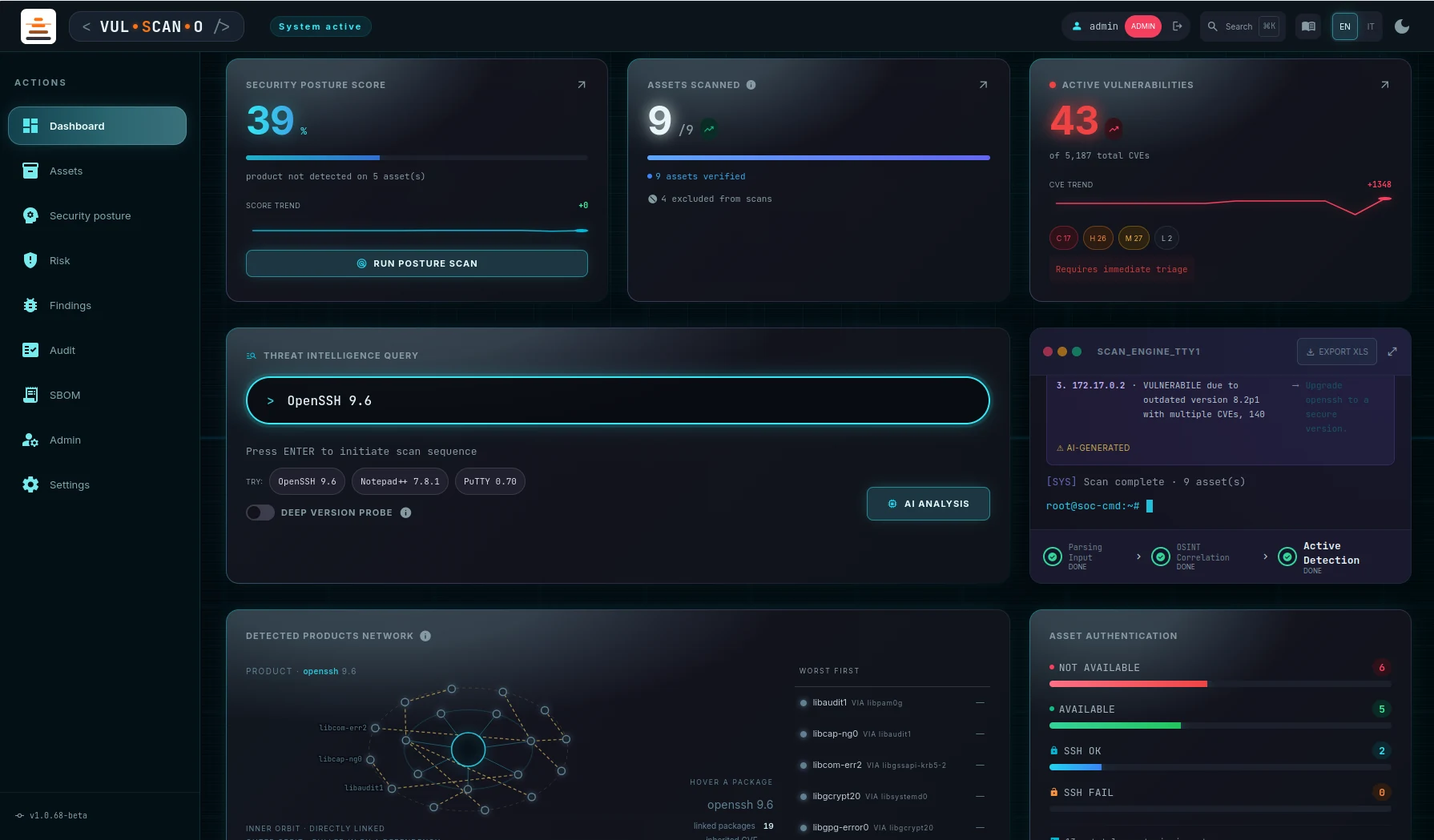
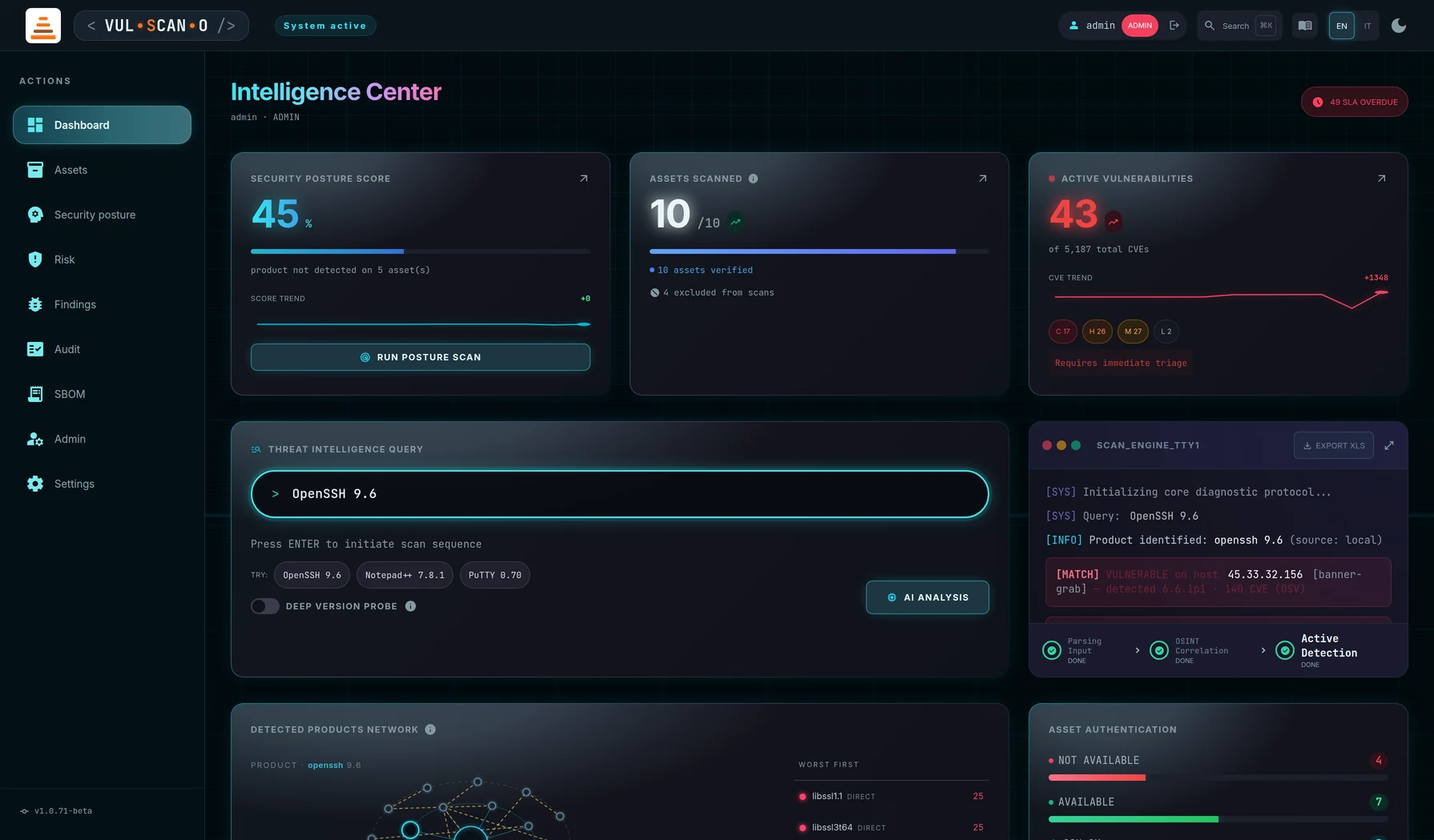
NEW: the dependency orbit inherits the risk the posture run already measured
The panel drew twenty packages and coloured none of them. The linkage
returns distribution package names (libssl3t64 on Noble, libssl1.1 on
Focal, zlib1g on both) while the posture run indexes product names
(openssl, zlib, systemd), so every lookup missed and every body fell
back to "not covered by a posture scan yet" — including packages the
posture run had measured minutes earlier, on the same host.

orbitProduct() bridges the two: exact hit first, then the soname tail
stripped, then the lib prefix, then a short alias table for the names
that are not derivable (ssl/crypto -> openssl, z -> zlib, c -> glibc).
A candidate is accepted only if the risk index actually holds it, so
over-stripping degrades to "unmeasured" instead of inventing a match:
libnginx-mod-http-geoip2 stays itself, it does not become nginx.

Where the bridge fires, the panel says so — the hover readout gains a
"measured as openssl" line. The label on the body stays the package
that is really installed, because that is what you would go and patch.

OpenSSH 9.6 across two hosts: 20 linked packages, 95 inherited CVE, 4
bodies now carrying real colour and size where there were none.

Documentation follows in the same commit, since the figures had to be
retaken anyway:

- the manual's dashboard figure now shows a real measurement (OpenSSH
  9.6 on two authenticated Linux hosts) instead of the rotating demo,
  and the section documents the orbits, the inherited-risk encoding,
[…]

diff --git a/static/manuale_uso/03-dashboard.html b/static/manuale_uso/03-dashboard.html
@@ -374,10 +374,10 @@
         <figure>
           <img src="img/dash-network.webp" alt="Detected products network graph" loading="lazy" />
           <figcaption>
-            <span lang="en"><b>The product dependency graph</b> — here in its idle <em>LIVE DEMO</em> state, cycling through
-              sample products every three seconds while no scan has run.</span>
-            <span lang="it"><b>Il grafo delle dipendenze di prodotto</b> — qui nello stato inattivo <em>LIVE DEMO</em>, che ruota
-              fra prodotti di esempio ogni tre secondi finché non è stata eseguita alcuna scansione.</span>
+            <span lang="en"><b>The dependency orbit</b> — a real measurement, not the demo: OpenSSH 9.6 as found on two
+              authenticated Linux hosts, with the packages it links ranked worst first.</span>
+            <span lang="it"><b>L'orbita delle dipendenze</b> — una misura reale, non la demo: OpenSSH 9.6 come rilevato su due
+              host Linux autenticati, con i pacchetti collegati ordinati dal peggiore.</span>
           </figcaption>
         </figure>
 
@@ -395,11 +395,13 @@
 
         <h3><span lang="en">How It Works</span><span lang="it">Come funziona</span></h3>
         <ol class="steps">
-          <li><span lang="en"><strong>Identification</strong> — the searched text resolves to a canonical product (alias match, or OSINT fallback). That becomes the central cyan node.</span><span lang="it"><strong>Identificazione</strong> — il testo cercato viene risolto in un prodotto canonico (corrispondenza per alias o fallback OSINT). Diventa il nodo centrale ciano.</span></li>
+          <li><span lang="en"><strong>Identification</strong> — the searched text resolves to a canonical product (alias match, or OSINT fallback). That becomes the central body the two orbits turn around.</span><span lang="it"><strong>Identificazione</strong> — il testo cercato viene risolto in un prodotto canonico (corrispondenza per alias o fallback OSINT). Diventa il corpo centrale attorno a cui girano le due orbite.</span></li>
           <li><span lang="en"><strong>Dependencies</strong> — on each authenticated Linux asset where the product is found, the scanner runs <code>ldd</code> over the product binary to list the shared libraries it really links, then maps every library to its owning package with <code>dpkg -S</code> (Debian/Ubuntu) or <code>rpm -qf</code> (RHEL/Fedora). The graph shows the union of those packages across all assets.</span><span lang="it"><strong>Dipendenze</strong> — su ogni asset Linux autenticato dove il prodotto è presente, lo scanner esegue <code>ldd</code> sul binario del prodotto per elencare le librerie condivise realmente collegate, poi associa ogni libreria al pacchetto che la fornisce con <code>dpkg -S</code> (Debian/Ubuntu) o <code>rpm -qf</code> (RHEL/Fedora). Il grafo mostra l'unione di quei pacchetti su tutti gli asset.</span></li>
-          <li><span lang="en"><strong>Inter-dependency links</strong> — for each dependency library, its direct <code>DT_NEEDED</code> entries are read with <code>objdump -p</code> (fallback <code>readelf -d</code>) and resolved back to packages. A dashed edge A→B is drawn <em>only</em> when A really links B.</span><span lang="it"><strong>Collegamenti fra dipendenze</strong> — per ogni libreria di dipendenza vengono lette le voci dirette <code>DT_NEEDED</code> con <code>objdump -p</code> (fallback <code>readelf -d</code>) e risolte nuovamente in pacchetti. Un arco tratteggiato A→B viene disegnato <em>solo</em> quando A collega davvero B.</span></li>
+          <li><span lang="en"><strong>Inter-dependency links</strong> — for each dependency library, its direct <code>DT_NEEDED</code> entries are read with <code>objdump -p</code> (fallback <code>readelf -d</code>) and resolved back to packages. A dashed edge A→B is drawn <em>only</em> when A really links B. That distance is what places a package: the <b>inner orbit</b> holds what the product links directly, the <b>outer orbit</b> what a dependency drags in behind it.</span><span lang="it"><strong>Collegamenti fra dipendenze</strong> — per ogni libreria di dipendenza vengono lette le voci dirette <code>DT_NEEDED</code> con <code>objdump -p</code> (fallback <code>readelf -d</code>) e risolte nuovamente in pacchetti. Un arco tratteggiato A→B viene disegnato <em>solo</em> quando A collega davvero B. È quella distanza a decidere la posizione: l'<b>orbita interna</b> tiene ciò che il prodotto collega direttamente, l'<b>orbita esterna</b> ciò che una dipendenza si trascina dietro.</span></li>
           <li><span lang="en"><strong>Noise filtering</strong> — ubiquitous base libraries (libc, the loader, libgcc/libstdc++) are removed, because they connect to everything and inform nothing.</span><span lang="it"><strong>Filtro del rumore</strong> — le librerie di base onnipresenti (libc, il loader, libgcc/libstdc++) vengono rimosse, perché collegano tutto e non informano di nulla.</span></li>
-          <li><span lang="en"><strong>Provenance</strong> — the legend reports how many packages were resolved and across how many assets.</span><span lang="it"><strong>Provenienza</strong> — la legenda riporta quanti pacchetti sono stati risolti e su quanti asset.</span></li>
+          <li><span lang="en"><strong>Inherited risk</strong> — each package is then looked up in the risk index built by the latest posture run. Colour is severity, size is the number of known CVEs, brightness is exploit probability; a package the posture run never measured stays grey and says <em>not covered by a posture scan yet</em>, because claiming “0 CVE” for something never analysed would be the one plainly false thing this panel could say.</span><span lang="it"><strong>Rischio ereditato</strong> — ogni pacchetto viene poi cercato nell'indice di rischio costruito dall'ultima run di postura. Il colore è la severità, la dimensione il numero di CVE note, la luminosità la probabilità di sfruttamento; un pacchetto che la postura non ha mai misurato resta grigio e dichiara <em>non ancora coperto da una scansione di postura</em>, perché dire «0 CVE» di qualcosa mai analizzato sarebbe l'unica affermazione davvero falsa che questo pannello potrebbe fare.</span></li>
+          <li><span lang="en"><strong>Package names versus product names</strong> — the linkage returns distribution package names (<code>libssl3t64</code> on Ubuntu 24.04, <code>libssl1.1</code> on 20.04, <code>zlib1g</code> on both), while the posture run reasons in product names (<code>openssl</code>, <code>zlib</code>). The panel bridges the two and, when it does, the hover readout states it: <em>measured as openssl</em>. The label always stays the package actually installed.</span><span lang="it"><strong>Nomi di pacchetto e nomi di prodotto</strong> — il linkage restituisce nomi di pacchetto della distribuzione (<code>libssl3t64</code> su Ubuntu 24.04, <code>libssl1.1</code> su 20.04, <code>zlib1g</code> su entrambe), mentre la run di postura ragiona per nome di prodotto (<code>openssl</code>, <code>zlib</code>). Il pannello fa da ponte fra i due e, quando lo fa, il riquadro di lettura lo dichiara: <em>misurato come openssl</em>. L'etichetta resta sempre il pacchetto realmente installato.</span></li>
+          <li><span lang="en"><strong>Provenance</strong> — the legend reports how many packages were resolved and across how many assets. Clicking a package opens <a href="07-findings.html">/findings</a> already filtered on it.</span><span lang="it"><strong>Provenienza</strong> — la legenda riporta quanti pacchetti sono stati risolti e su quanti asset. Un clic su un pacchetto apre <a href="07-findings.html">/findings</a> già filtrato su quel pacchetto.</span></li>
         </ol>
 
         <h3><span lang="en">Features Breakdown — states</span><span lang="it">Dettaglio funzionalità — stati</span></h3>
@@ -411,8 +413,8 @@
             <tbody>
               <tr><td><span lang="en"><strong>Idle</strong> (no scan yet)</span><span lang="it"><strong>Inattivo</strong> (nessuna scansione)</span></td><td><span lang="en">A rotating demonstration: the graph switches product every three seconds, marked with a <span class="badge b-acc">LIVE DEMO</span> badge and a <em>sample</em> tag in the legend. Nothing here reflects your fleet.</span><span lang="it">Una dimostrazione a rotazione: il grafo cambia prodotto ogni tre secondi, contrassegnato dal badge <span class="badge b-acc">LIVE DEMO</span> e dall'etichetta <em>sample</em> in legenda. Nulla qui riflette il tuo parco macchine.</span></td></tr>
               <tr><td><span lang="en"><strong>Scanning</strong></span><span lang="it"><strong>In scansione</strong></span></td><td><span lang="en">A graph-shaped loader: central node with a spinner, rotating rings, pulsing placeholder nodes and a shimmering skeleton legend.</span><span lang="it">Un loader a forma di grafo: nodo centrale con spinner, anelli rotanti, nodi segnaposto pulsanti e legenda scheletro con effetto shimmer.</span></td></tr>
-              <tr><td><span lang="en"><strong>Complete</strong></span><span lang="it"><strong>Completato</strong></span></td><td><span lang="en">The real graph of the detected product, with the dependency legend and the inter-dependency link count.</span><span lang="it">Il grafo reale del prodotto rilevato, con la legenda delle dipendenze e il conteggio dei collegamenti fra dipendenze.</span></td></tr>
-              <tr><td><span lang="en"><strong>No dependencies</strong></span><span lang="it"><strong>Nessuna dipendenza</strong></span></td><td><span lang="en">Only the central node, plus the explanation: <em>“No runtime dependencies resolved. Real dependencies are read from authenticated Linux assets…”</em>. Banner-only, simulated, Windows or unreachable assets cannot resolve dependencies — this is a limitation, not a bug.</span><span lang="it">Solo il nodo centrale, più la spiegazione: <em>«No runtime dependencies resolved. Real dependencies are read from authenticated Linux assets…»</em>. Asset con solo banner, simulati, Windows o irraggiungibili non possono risolvere dipendenze — è un limite, non un difetto.</span></td></tr>
+              <tr><td><span lang="en"><strong>Complete</strong></span><span lang="it"><strong>Completato</strong></span></td><td><span lang="en">The two orbits of the detected product, the <em>worst first</em> list beside them, and a readout giving the linked package count, the inherited CVE total and how many of those packages are in CISA KEV. Hovering a body — on the canvas or in the list — replaces the readout with that package's own figures.</span><span lang="it">Le due orbite del prodotto rilevato, la lista <em>worst first</em> a fianco e un riquadro di lettura con il numero di pacchetti collegati, il totale di CVE ereditate e quanti di quei pacchetti sono in CISA KEV. Passando sopra un corpo — sul canvas o nella lista — il riquadro mostra le cifre di quel singolo pacchetto.</span></td></tr>
+              <tr><td><span lang="en"><strong>No dependencies</strong></span><span lang="it"><strong>Nessuna dipendenza</strong></span></td><td><span lang="en">Only the central body, plus an explanation that distinguishes the three reasons rather than lumping them together: the product was <em>not found on any of the N scanned assets</em>; it was <em>found on N asset(s), none of them an authenticated Linux host</em>; or simply <em>no runtime linkage measured yet</em>. Banner-only, simulated, Windows or unreachable assets cannot resolve dependencies — a limitation, not a bug.</span><span lang="it">Solo il corpo centrale, più una spiegazione che distingue le tre ragioni invece di confonderle: il prodotto <em>non è stato trovato su nessuno degli N asset scansionati</em>; è stato <em>trovato su N asset, nessuno dei quali un host Linux autenticato</em>; oppure semplicemente <em>nessun linkage runtime ancora misurato</em>. Asset con solo banner, simulati, Windows o irraggiungibili non possono risolvere dipendenze — è un limite, non un difetto.</span></td></tr>
             </tbody>
           </table>
         </div>

diff --git a/static/manuale_uso/02-auth.html b/static/manuale_uso/02-auth.html
@@ -94,12 +94,37 @@
         <figure class="mid">
           <img src="img/login-page.webp" alt="Sign-in page" loading="lazy" />
           <figcaption>
-            <span lang="en"><b>The sign-in page</b> — centred card on the dark background. The version string at the bottom
-              identifies the running build.</span>
-            <span lang="it"><b>La pagina di accesso</b> — card centrata su sfondo scuro. La stringa di versione in fondo
-              identifica la build in esecuzione.</span>
+            <span lang="en"><b>The sign-in page</b> — the form sits on the left of a generated star field; the legend on
+              the right explains what the field means. The version string at the bottom identifies the running
+              build.</span>
+            <span lang="it"><b>La pagina di accesso</b> — il modulo sta a sinistra di un campo stellare generato; la legenda a
+              destra spiega che cosa rappresenta. La stringa di versione in fondo identifica la build in
+              esecuzione.</span>
           </figcaption>
         </figure>
+
+        <p lang="en">
+          The background is not decoration and not data: it is a <b>generated</b> star field with a fixed seed, where
+          every point stands for a finding, the colour for its state and the brightness for its exploit probability.
+          The page makes no request before you sign in, precisely so that nobody without a session can count how many
+          assets or how many findings this installation holds. The legend on the right reads the picture; it says
+          nothing about your fleet.
+        </p>
+        <p lang="it">
+          Lo sfondo non è decorazione e non è un dato: è un campo stellare <b>generato</b> con seme fisso, dove ogni
+          punto rappresenta un finding, il colore il suo stato e la luminosità la sua probabilità di sfruttamento. La
+          pagina non effettua alcuna richiesta prima dell'accesso, proprio perché nessuno senza sessione possa contare
+          quanti asset o quanti finding contiene questa installazione. La legenda a destra spiega la figura; non dice
+          nulla del tuo parco macchine.
+        </p>
+        <p lang="en">
+          These three pages ignore the light/dark preference of the rest of the interface and are always dark: the
+          figure only exists on black, and invitation → activation → first sign-in has to feel like one room.
+        </p>
+        <p lang="it">
+          Queste tre pagine ignorano la preferenza chiaro/scuro del resto dell'interfaccia e sono sempre scure: la
+          figura esiste solo sul nero, e il percorso invito → attivazione → primo accesso deve essere un unico ambiente.
+        </p>
 
         <h3><span lang="en">Features Breakdown</span><span lang="it">Dettaglio funzionalità</span></h3>
 
@@ -313,9 +338,9 @@
         <figure class="mid">
           <img src="img/activate-page.webp" alt="Set your password page" loading="lazy" />
           <figcaption>
-            <span lang="en"><b>SET YOUR PASSWORD</b> — the same screen serves both activation and reset; the token's stored
+            <span lang="en"><b>SET PASSWORD</b> — the same screen serves both activation and reset; the token's stored
               purpose decides which flow runs.</span>
-            <span lang="it"><b>SET YOUR PASSWORD</b> — la stessa schermata serve sia l'attivazione sia il reset; è lo scopo
+            <span lang="it"><b>SET PASSWORD</b> — la stessa schermata serve sia l'attivazione sia il reset; è lo scopo
               memorizzato nel token a decidere quale flusso venga eseguito.</span>
           </figcaption>
         </figure>

diff --git a/static/manuale_uso/10-admin.html b/static/manuale_uso/10-admin.html
@@ -276,10 +276,12 @@
         <figure>
           <img src="img/admin-users.webp" alt="Users table" loading="lazy" />
           <figcaption>
-            <span lang="en"><b>The users table</b> — status badges, inline role editing, group membership and the per-row
-              actions.</span>
-            <span lang="it"><b>La tabella utenti</b> — badge di stato, modifica del ruolo in linea, appartenenza ai gruppi e le
-              azioni per riga.</span>
+            <span lang="en"><b>The users table</b> — status badges, the ACCESS padlock with its countdown, inline role
+              editing, group membership and the per-row actions. Email addresses are blurred in this manual's
+              screenshots.</span>
+            <span lang="it"><b>La tabella utenti</b> — badge di stato, il lucchetto ACCESSO con il suo conto alla rovescia,
+              modifica del ruolo in linea, appartenenza ai gruppi e le azioni per riga. Gli indirizzi email sono sfocati
+              negli screenshot di questo manuale.</span>
           </figcaption>
         </figure>
         <div class="scroll-x">
@@ -294,6 +296,13 @@
                 <td>
                   <span lang="en"><span class="badge b-warn">PENDING</span> — invited, link not yet used. <span class="badge b-ok">ACTIVE</span> — password set. Plus three informative badges: <em>Email verified</em>, <em>Email NOT verified</em>, and <em>Password change forced at next login</em>.</span>
                   <span lang="it"><span class="badge b-warn">PENDING</span> — invitato, link non ancora usato. <span class="badge b-ok">ACTIVE</span> — password impostata. Più tre badge informativi: <em>Email verified</em>, <em>Email NOT verified</em> e <em>Password change forced at next login</em>.</span>
+                </td>
+              </tr>
+              <tr>
+                <td><strong>ACCESS</strong></td>
+                <td>
+                  <span lang="en">The sign-in throttle, made visible. An <b>open padlock</b> means the account is free; its tooltip still reports how many failed sign-ins are inside the current window. A <b>closed red padlock with a countdown</b> means the account is locked and the countdown is what is left of the block. Clicking it asks for confirmation and calls <code>POST /api/users/{id}/unlock</code>, which clears the failures immediately and writes an <code>auth.unlock</code> entry to the audit ledger — an administrator lifting a security control is itself an auditable act. The lock is per username and the block is never silent: the sign-in page returns <code>429</code> with its own countdown.</span>
+                  <span lang="it">Il freno agli accessi, reso visibile. Un <b>lucchetto aperto</b> indica un account libero; il tooltip riporta comunque quanti accessi falliti ci sono nella finestra corrente. Un <b>lucchetto rosso chiuso con conto alla rovescia</b> indica un account bloccato, e il conto è ciò che resta del blocco. Cliccandolo viene chiesta conferma e viene chiamato <code>POST /api/users/{id}/unlock</code>, che azzera subito i fallimenti e scrive una voce <code>auth.unlock</code> nel registro di audit — un amministratore che rimuove un controllo di sicurezza è a sua volta un atto verificabile. Il blocco è per username e non è mai silenzioso: la pagina di accesso risponde <code>429</code> con il proprio conto alla rovescia.</span>
                 </td>
               </tr>
               <tr>

diff --git a/templates/index.html b/templates/index.html
@@ -152,7 +152,7 @@
       min-height: max(884px, 100dvh);
     }
   </style>
-  <script src="/static/i18n.js?v=44"></script>
+  <script src="/static/i18n.js?v=45"></script>
 </head>
 
 <body
@@ -832,10 +832,41 @@
       } catch (_) { /* best-effort: senza indice i corpi restano "non misurati" */ }
     }
 
+    // Il linkage restituisce nomi di PACCHETTO della distribuzione (libssl3t64
+    // su Noble, libssl1.1 su Focal, zlib1g ovunque); l'indice di rischio ragiona
+    // per nome di PRODOTTO (openssl, zlib). Senza un ponte fra i due ogni corpo
+    // dell'orbita resta "non misurato" anche quando la posture ha misurato
+    // esattamente quel software, con la stessa versione, sullo stesso host.
+    const ORBIT_PRODUCT_ALIAS = {
+      ssl: 'openssl', crypto: 'openssl',
+      z: 'zlib', c: 'glibc', pthread: 'glibc', dl: 'glibc', m: 'glibc',
+    };
+    function orbitProduct(pkg) {
+      const raw = (pkg || '').toLowerCase();
+      if (orbitRisk.has(raw)) return raw;
+      // Coda soname: libssl3t64 -> libssl, zlib1g -> zlib, libpcre2-8-0 -> libpcre2.
+      const soname = /[-_.]?\d[\d.]*(t\d+)?g?$/;
+      const one = raw.replace(soname, '');
+      const bases = [one, one.replace(soname, '')];
+      for (const b of bases) {
+        for (const c of [b, b.replace(/^lib/, '')]) {
+          if (!c) continue;
+          if (orbitRisk.has(c)) return c;
+          const a = ORBIT_PRODUCT_ALIAS[c];
+          if (a && orbitRisk.has(a)) return a;
+        }
+      }
+      return raw;
+    }
+
     function orbitStat(pkg) {
-      const hit = orbitRisk.get((pkg || '').toLowerCase());
-      if (!hit) return { known: false, cve: null, kev: false, epss: 0, assets: 0, sev: '' };
-      return { known: true, ...hit };
+      const raw = (pkg || '').toLowerCase();
+      const key = orbitProduct(raw);
+      const hit = orbitRisk.get(key);
+      if (!hit) return { known: false, cve: null, kev: false, epss: 0, assets: 0, sev: '', as: '' };
+      // 'as' e' quello che il pannello deve poter dichiarare: queste cifre sono
+      // del prodotto, non del pacchetto, e chi legge ha il diritto di saperlo.
+      return { known: true, ...hit, as: key === raw ? '' : key };
     }
     function orbitColor(st, P) {
       if (!st.known) return P.mute;
@@ -1027,7 +1058,8 @@
             (st.known
               ? `<div class="ln" style="color:${P.labelDim}"><span>${i18n.t('dash.orbit_cve')}</span><b style="color:${hover.colour}">${st.cve}</b></div>
                  <div class="ln" style="color:${P.labelDim}"><span>${i18n.t('dash.orbit_epss')}</span><b style="color:${P.label}">${st.epss ? (st.epss * 100).toFixed(0) + '%' : '—'}</b></div>
-                 <div class="ln" style="color:${P.labelDim}"><span>${i18n.t('dash.orbit_seen')}</span><b style="color:${P.label}">${st.assets}</b></div>`
+                 <div class="ln" style="color:${P.labelDim}"><span>${i18n.t('dash.orbit_seen')}</span><b style="color:${P.label}">${st.assets}</b></div>` +
+                (st.as ? `<div class="ln" style="color:${P.labelDim}"><span>${i18n.t('dash.orbit_measured_as')}</span><b style="color:${P.label}">${st.as}</b></div>` : '')
               : `<div class="ln" style="color:${P.labelDim}"><span>${i18n.t('dash.orbit_unmeasured')}</span></div>`);
         } else {
           const known = nodes.filter((n) => n.st.known);

diff --git a/static/manuale_uso/09-audit.html b/static/manuale_uso/09-audit.html
@@ -128,10 +128,10 @@
         <figure>
           <img src="img/audit-page.webp" alt="Audit ledger page" loading="lazy" />
           <figcaption>
-            <span lang="en"><b>The audit page</b> — integrity badge and search at the top, the KPI strip, the filter row and the
-              chronological entry list.</span>
-            <span lang="it"><b>La pagina audit</b> — badge di integrità e ricerca in alto, striscia KPI, riga dei filtri ed elenco
-              cronologico delle voci.</span>
+            <span lang="en"><b>The audit page</b> — integrity badge and search at the top, then the three tabs (SCANS,
+              POSTURE RUNS, ACTIVITY), the KPI strip, the filter row and the chronological entry list.</span>
+            <span lang="it"><b>La pagina audit</b> — badge di integrità e ricerca in alto, poi le tre schede (SCANS, RUN DI
+              POSTURA, ACTIVITY), la striscia KPI, la riga dei filtri e l'elenco cronologico delle voci.</span>
           </figcaption>
         </figure>
       </section>
@@ -619,6 +619,16 @@
           persona che l'ha lanciata. Sono le <strong>cifre point-in-time</strong>: quelle dietro <em>«a questa data
           avevi N vulnerabilità aperte»</em>, e le prime che un audit esterno contesta.
         </p>
+        <figure>
+          <img src="img/audit-posture.webp" alt="Posture runs tab" loading="lazy" />
+          <figcaption>
+            <span lang="en"><b>The POSTURE RUNS tab</b> — one row per run with its sealed badge, asset count, package and
+              vulnerability totals, average score and the actor who launched it.</span>
+            <span lang="it"><b>La scheda RUN DI POSTURA</b> — una riga per run con il badge di sigillo, il numero di asset, i
+              totali di pacchetti e vulnerabilità, lo score medio e l'attore che l'ha lanciata.</span>
+          </figcaption>
+        </figure>
+
         <div class="note">
           <span lang="en"><b>Why this tab exists.</b> Posture runs already had their hash chain, their end-of-run seal
             and their verification endpoint — the <em>proof</em> — while the audit page showed only the

diff --git a/static/i18n.js b/static/i18n.js
@@ -115,6 +115,7 @@
       'dash.orbit_epss': 'EPSS max',
       'dash.orbit_seen': 'seen on assets',
       'dash.orbit_unmeasured': 'not covered by a posture scan yet',
+      'dash.orbit_measured_as': 'measured as',
       'dash.orbit_linked': 'linked packages',
       'dash.orbit_inherited': 'inherited CVE',
       'dash.orbit_kev': 'KEV in the chain',
@@ -881,6 +882,7 @@
       'dash.orbit_epss': 'EPSS max',
       'dash.orbit_seen': 'visto su asset',
       'dash.orbit_unmeasured': 'non ancora coperto da una scansione di postura',
+      'dash.orbit_measured_as': 'misurato come',
       'dash.orbit_linked': 'pacchetti linkati',
       'dash.orbit_inherited': 'CVE ereditate',
       'dash.orbit_kev': 'KEV nella catena',

diff --git a/templates/login.html b/templates/login.html
@@ -11,7 +11,7 @@
   <link rel="stylesheet" href="/static/vendor/tailwind.css?v=46" />
   <!-- DEEP FIELD: guscio comune alle schermate di accesso (vedi vfa-field.css) -->
   <link rel="stylesheet" href="/static/vfa-field.css?v=6" />
-  <script src="/static/i18n.js?v=44"></script>
+  <script src="/static/i18n.js?v=45"></script>
   <script src="/static/vfa-field.js?v=2" defer></script>
   <script src="/static/vfa-auth.js?v=3" defer></script>
 </head>

diff --git a/templates/activate.html b/templates/activate.html
@@ -13,7 +13,7 @@
        unico percorso, e cambiare ambiente a meta' strada lo farebbe sembrare
        un altro sito proprio mentre si sceglie una password. -->
   <link rel="stylesheet" href="/static/vfa-field.css?v=6" />
-  <script src="/static/i18n.js?v=44"></script>
+  <script src="/static/i18n.js?v=45"></script>
   <script src="/static/vfa-field.js?v=2" defer></script>
   <script src="/static/vfa-auth.js?v=3" defer></script>
 </head>

diff --git a/templates/change_password.html b/templates/change_password.html
@@ -12,7 +12,7 @@
   <!-- Stesso guscio della login: al primo accesso questa pagina arriva subito
        dopo, e il percorso deve restare un unico ambiente. -->
   <link rel="stylesheet" href="/static/vfa-field.css?v=6" />
-  <script src="/static/i18n.js?v=44"></script>
+  <script src="/static/i18n.js?v=45"></script>
   <script src="/static/vfa-field.js?v=2" defer></script>
   <script src="/static/vfa-auth.js?v=3" defer></script>
 </head>

diff --git a/templates/findings.html b/templates/findings.html
@@ -24,7 +24,7 @@
     .shader-bg { position: fixed; inset: 0; z-index: -1; width: 100%; height: 100%; background: #ffffff; }
     body { min-height: max(884px, 100dvh); }
   </style>
-  <script src="/static/i18n.js?v=44"></script>
+  <script src="/static/i18n.js?v=45"></script>
 </head>
 
 <body class="bg-white text-on-background font-body-md text-body-md relative antialiased overflow-x-hidden">

diff --git a/templates/sbom.html b/templates/sbom.html
@@ -25,7 +25,7 @@
     .neural-panel:has(.tip-wrap:hover),
     .neural-panel:has(.tip-wrap:focus-within) { z-index: 40; }
   </style>
-  <script src="/static/i18n.js?v=44"></script>
+  <script src="/static/i18n.js?v=45"></script>
 </head>
 <body class="bg-white text-on-background font-body-md text-body-md relative antialiased overflow-x-hidden">
   <div class="shader-bg">

diff --git a/templates/intel.html b/templates/intel.html
@@ -173,7 +173,7 @@
       to { transform: translateX(0); opacity: 1; }
     }
   </style>
-  <script src="/static/i18n.js?v=44"></script>
+  <script src="/static/i18n.js?v=45"></script>
   <script src="/static/vendor/xlsx.full.min.js"></script>
   <script src="/static/tableutils.js"></script>
   <script src="/static/vendor/d3.min.js"></script>
